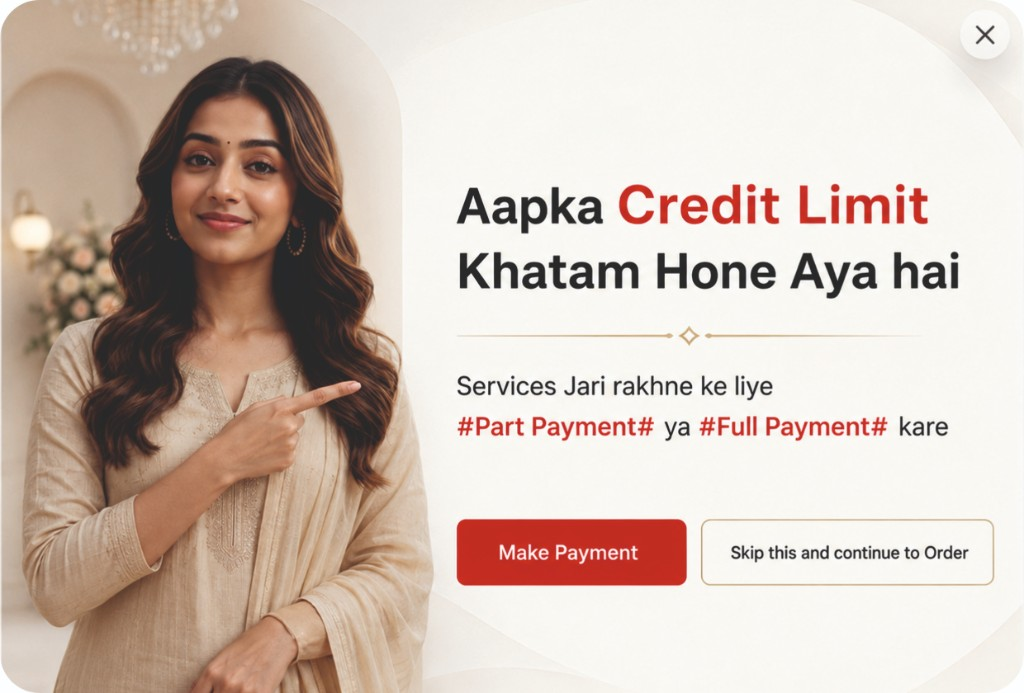
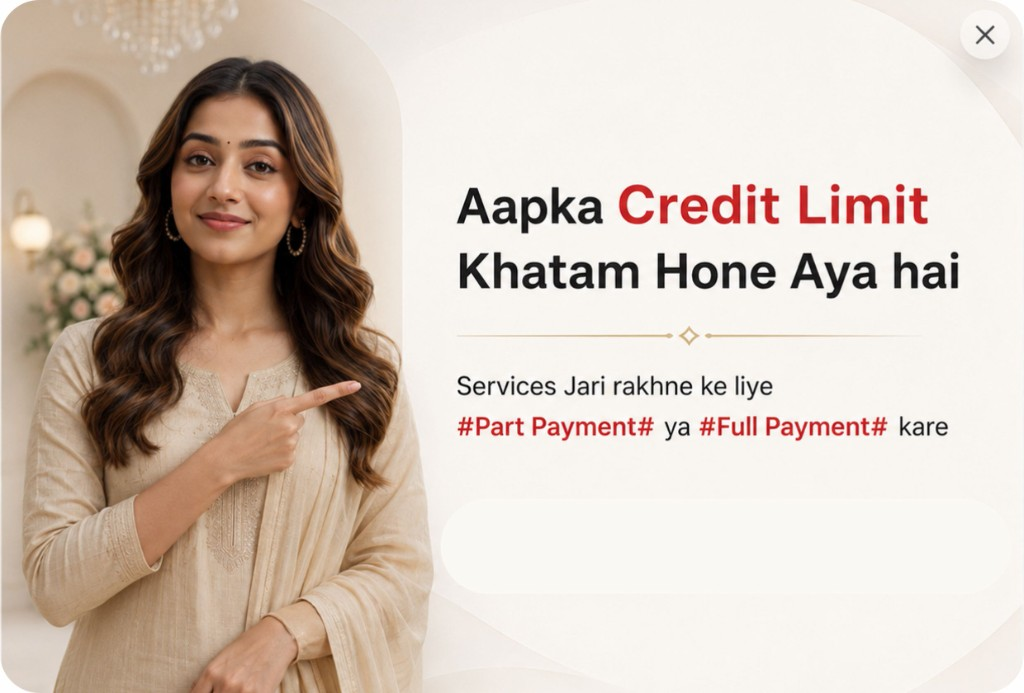
did changes fpr excel sheetsss

diff --git a/frontend/src/lib/order-bill.js b/frontend/src/lib/order-bill.js
@@ -111,16 +111,20 @@ export function normalizeGstRate(value) {
 }
 
 /**
- * Line amounts are taxable (exclusive); CGST/SGST = half of total GST each.
+ * Order amount is GST-inclusive (same as portal / catalog total).
+ * Back-calculate taxable + CGST + SGST so Grand Total = order.amount (no extra GST on top).
  */
-function splitExclusiveGst(taxableAmount, totalGstRate = 18) {
+function splitInclusiveGst(inclusiveAmount, totalGstRate = 18) {
   const taxRate = normalizeGstRate(totalGstRate);
   const half = taxRate / 2;
-  const taxable = Math.round(Number(taxableAmount || 0) * 100) / 100;
-  const cgst = Math.round(taxable * (half / 100) * 100) / 100;
-  const sgst = Math.round(taxable * (half / 100) * 100) / 100;
-  const taxTotal = Math.round((cgst + sgst) * 100) / 100;
-  const grand = Math.round((taxable + taxTotal) * 100) / 100;
+  const grand = Math.round(Number(inclusiveAmount || 0) * 100) / 100;
+  const taxable =
+    taxRate > 0
+      ? Math.round((grand / (1 + taxRate / 100)) * 100) / 100
+      : grand;
+  const taxTotal = Math.round((grand - taxable) * 100) / 100;
+  const cgst = Math.round((taxTotal / 2) * 100) / 100;
+  const sgst = Math.round((taxTotal - cgst) * 100) / 100;
   return { taxable, cgst, sgst, taxTotal, grand, taxRate, cgstRate: half, sgstRate: half };
 }
 
@@ -166,7 +170,7 @@ export function buildOrderBillSheetHtml({ order, account, hsnCode = "", gstRate 
   const lrNumber = String(order.lrNumber || "").trim();
   const transport = String(order.transportDetails || "").trim();
 
-  const { taxable, cgst, sgst, taxTotal, grand, taxRate, cgstRate, sgstRate } = splitExclusiveGst(
+  const { taxable, cgst, sgst, taxTotal, grand, taxRate, cgstRate, sgstRate } = splitInclusiveGst(
     order.amount,
     gstRate
   );

diff --git a/frontend/src/components/CreditReminderModal.js b/frontend/src/components/CreditReminderModal.js
@@ -44,13 +44,16 @@ export default function CreditReminderModal({
           alt="Aapka Credit Limit khatam hone aya hai — Part Payment ya Full Payment kare"
           className="block w-full object-contain"
         />
-        <div className="grid gap-2 border-t border-slate-100 px-4 py-3">
-          <Link href="/payment/outstanding" className={`${btnClass("primary")} w-full text-center`}>
-            Make Payment
+        <div className="grid gap-2 border-t border-slate-100 px-4 py-3 sm:grid-cols-2">
+          <Link
+            href="/payment/outstanding"
+            className={`${btnClass("primary")} w-full text-center sm:col-span-2`}
+          >
+            Part Payment / Full Payment
           </Link>
           <button
             type="button"
-            className={`${btnClass("ghost")} w-full border border-amber-400`}
+            className={`${btnClass("ghost")} w-full border border-amber-400 sm:col-span-2`}
             onClick={onClose}
           >
             Skip this and continue to Order

diff --git a/frontend/src/components/AdminOrderCatalogSection.js b/frontend/src/components/AdminOrderCatalogSection.js
@@ -443,7 +443,7 @@ export default function AdminOrderCatalogSection() {
                   </button>
                 </div>
                 <p className={`${ui.small} ${ui.muted} mt-1`}>
-                  Bill calculates CGST + SGST as half each (e.g. 18% → 9% + 9%).
+                  Order amount already includes GST. Bill shows taxable + CGST/SGST (half each) that sum to that amount.
                 </p>
               </div>
             </div>
